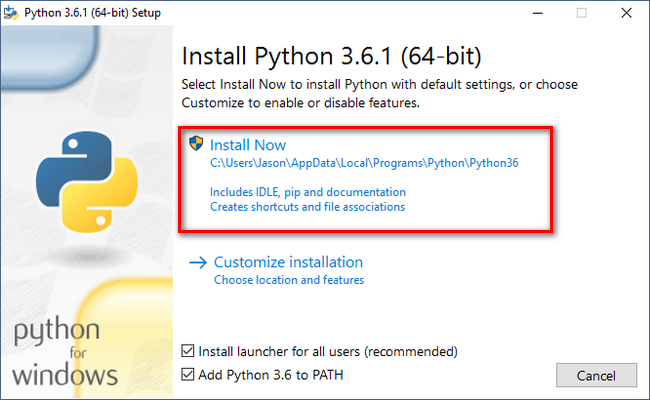
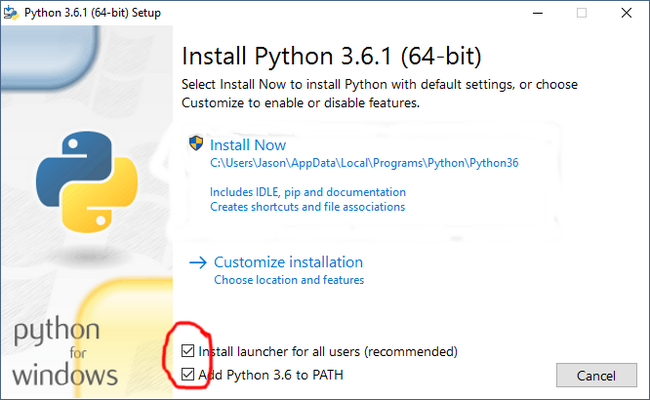
Added more instructions

Changed region(s): [[0.2462, 0.3, 0.8615, 0.6], [0.2462, 0.78, 0.3385, 0.99]]

diff --git a/README.md b/README.md
@@ -12,7 +12,9 @@ Strictly `Python 3.x` is required.
 
 Download `Python 3.x` installer from [here](https://www.python.org/ftp/python/3.6.4/python-3.6.4.exe) and install it.
 
-[Python installation](python.png)
+![Python installation](python.png)
+
+Make sure the checkboxes at the bottom of the installation window are ticked. Then click INSTALL NOW.
 ### Debian (Ubuntu)
 
 Python 3.x comes installed in Ubuntu.
@@ -33,4 +35,26 @@ There are various ways of opening the terminal, known as CMD in windows. You can
  Follow the following instructions to install Jupyter.
 
   1. Do not be intimidated by the screen.
-  2. 
+  2. Type `pip install jupyter` on the terminal.
+  3. Click Enter and wait as jupyter installs.
+
+### Linux (Ubuntu)
+
+Open the terminal using `ctrl + alt + T`  
+First you need to install `pip` before using it.
+
+  1. Type `sudo apt install python3-pip` on the terminal.
+  2. Enter your user password and wait as `pip` installs.
+  3.Type `pip3 install jupyter` on the terminal and wait as jupyter installs.
+
+
+Just to verify that jupyter was properly installed, type:
+
+`jupyter notebook` on the terminal. A new tab should be opened on your default browser.
+
+
+Feel free to open an issue if you encounter any problems.
+
+Regards,   
+Kevin Nderitu
+
